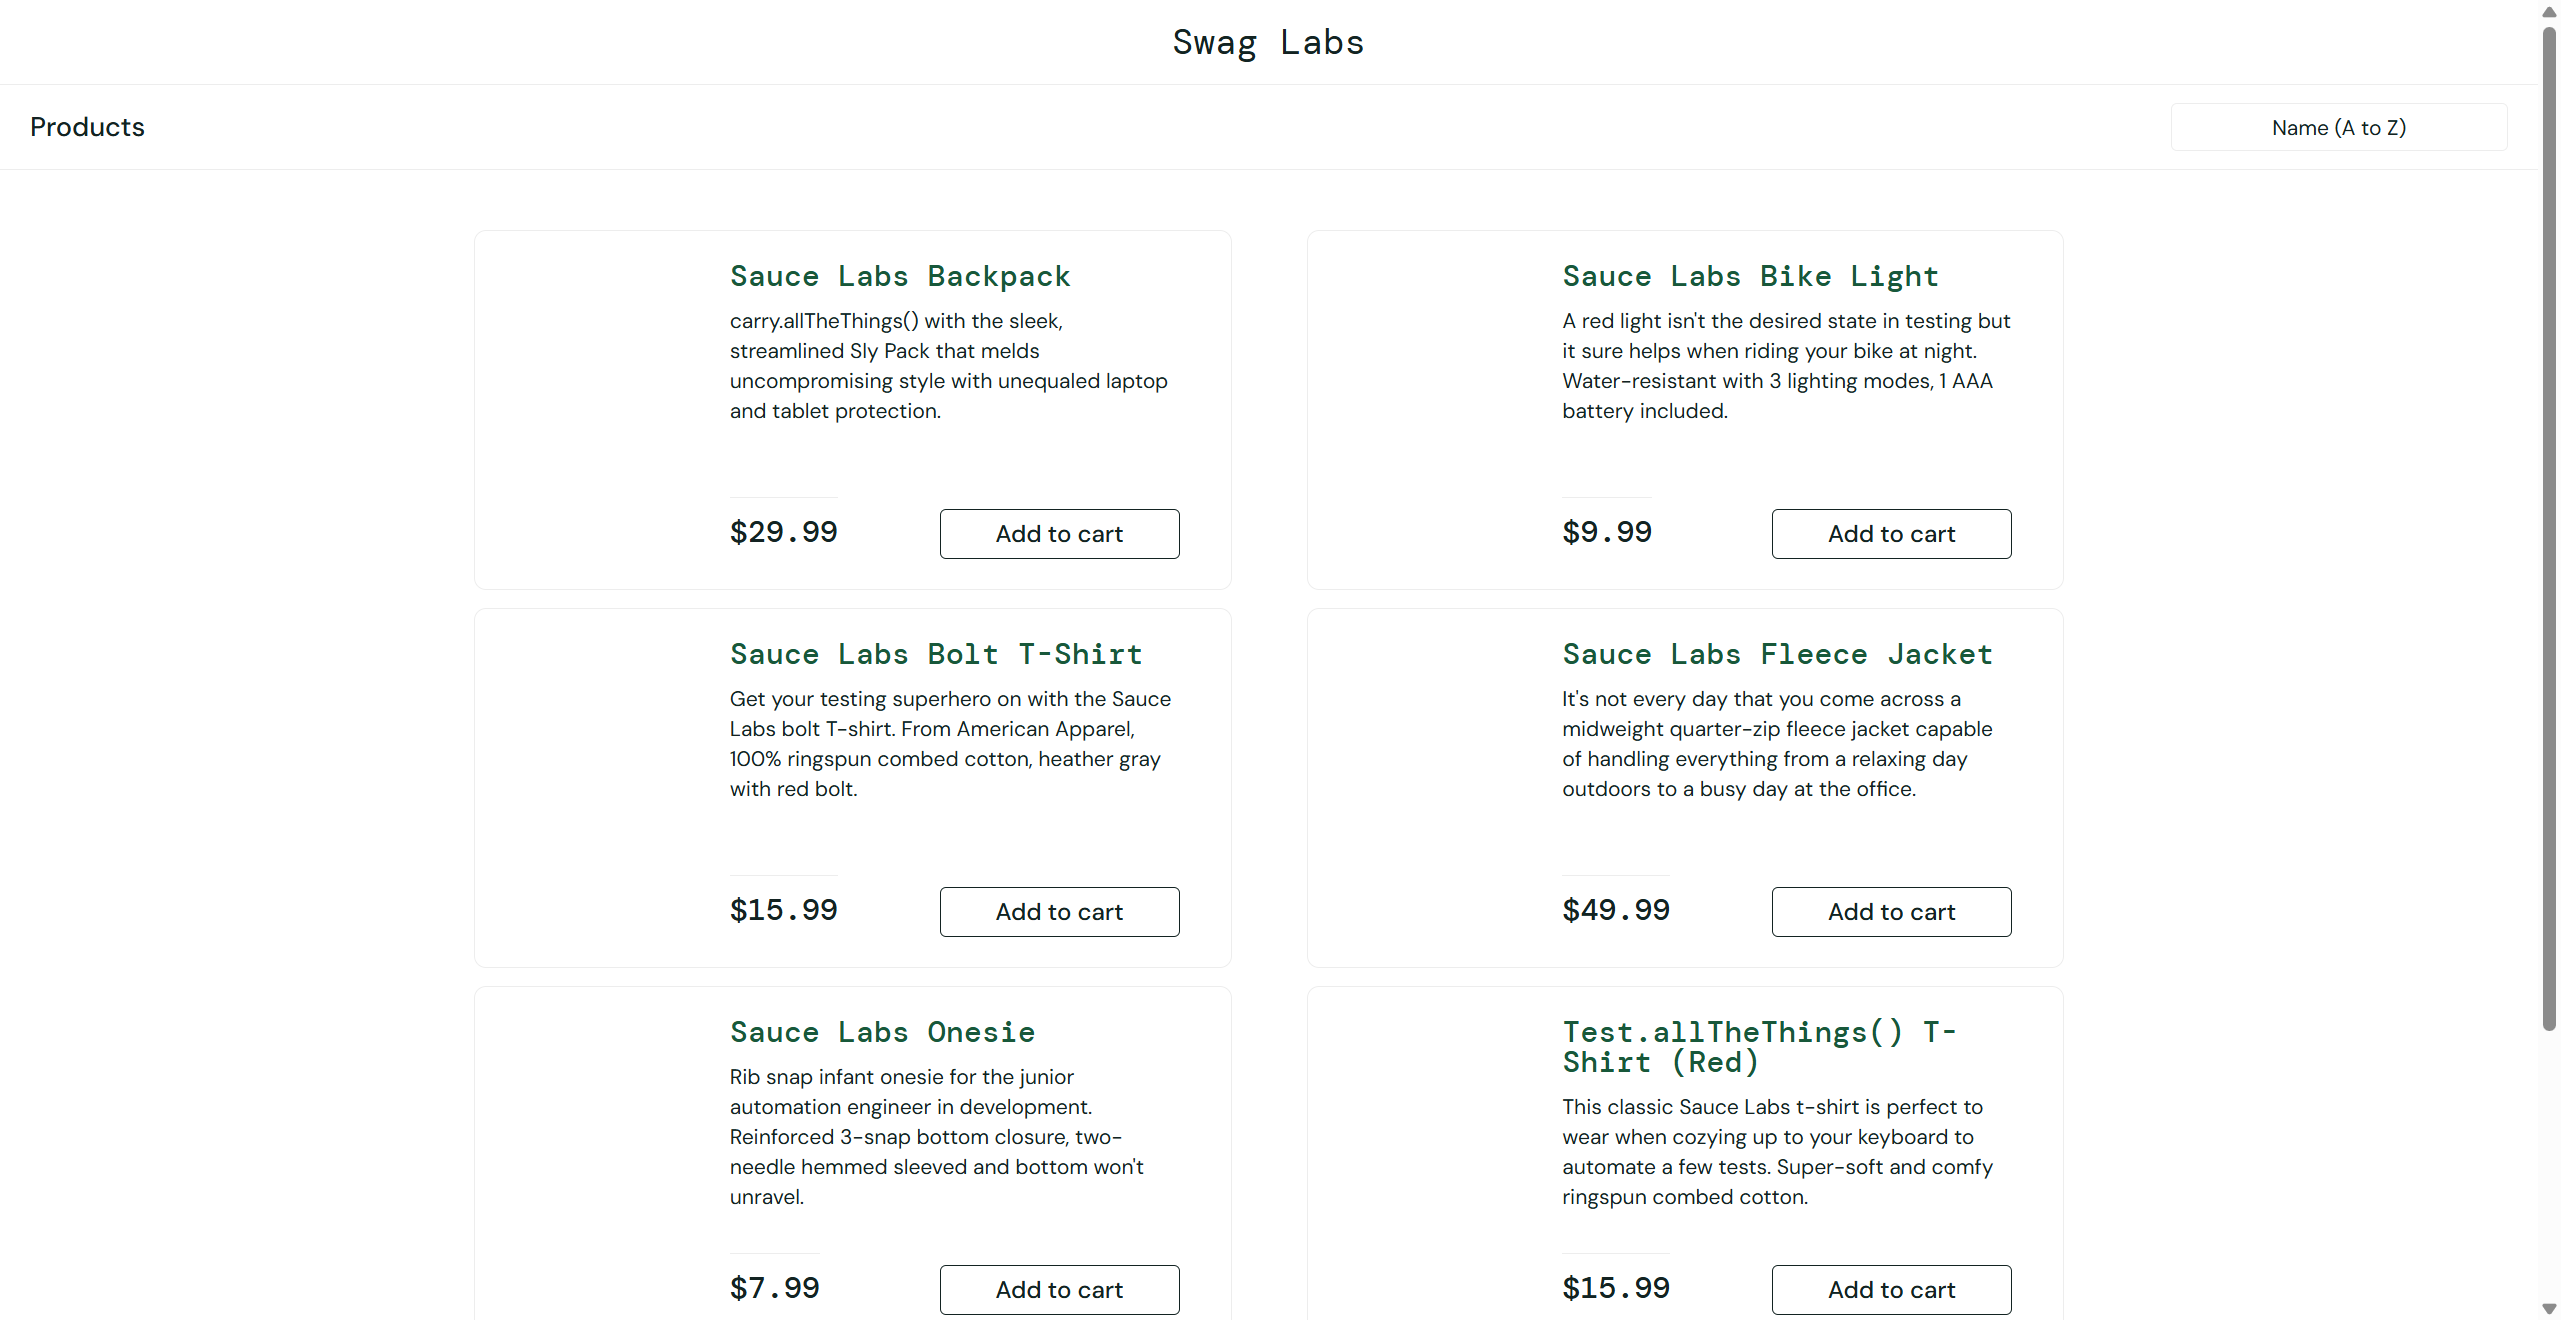
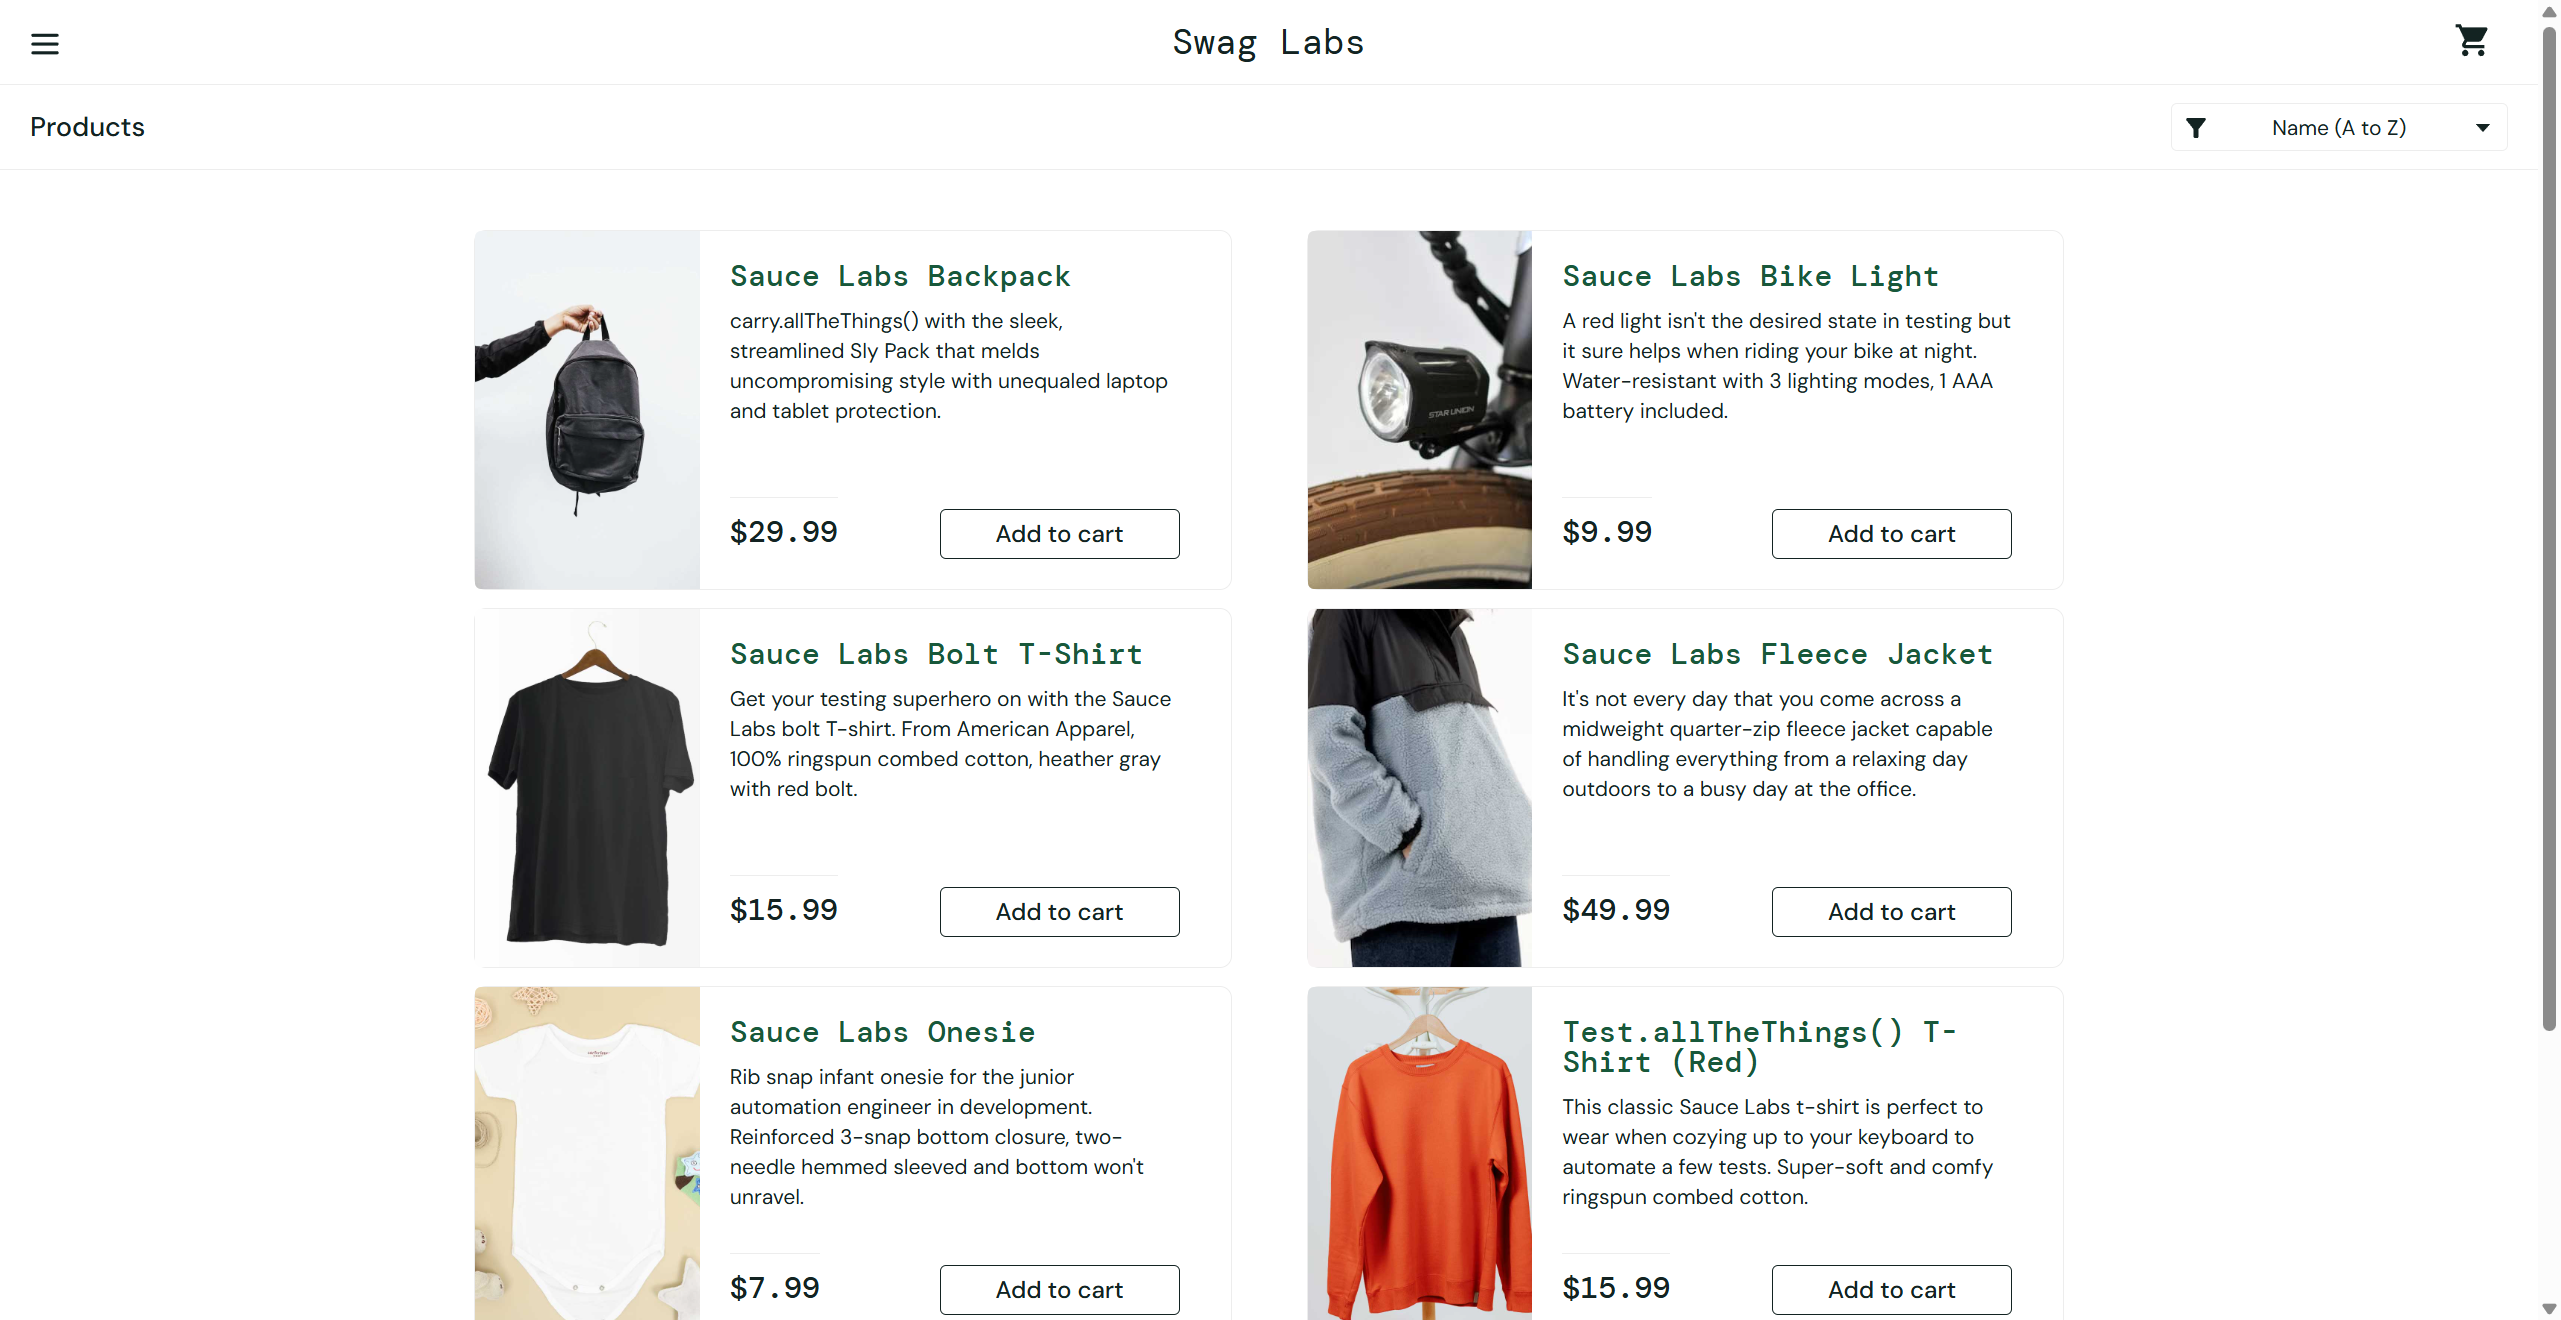
Final fix checkout navigation

diff --git a/pages/inventory_page.py b/pages/inventory_page.py
@@ -1,74 +1,30 @@
 from selenium.webdriver.common.by import By
-from selenium.webdriver.support.ui import Select, WebDriverWait
-from selenium.webdriver.support import expected_conditions as EC
-
+from selenium.webdriver.support.ui import Select
 from pages.base_page import BasePage
 
 
 class InventoryPage(BasePage):
-    INVENTORY_CONTAINER = (By.ID, "inventory_container")
-
     ADD_BACKPACK_BUTTON = (By.ID, "add-to-cart-sauce-labs-backpack")
-    REMOVE_BACKPACK_BUTTON = (By.ID, "remove-sauce-labs-backpack")
     CART_LINK = (By.CLASS_NAME, "shopping_cart_link")
     SORT_SELECT = (By.CLASS_NAME, "product_sort_container")
     INVENTORY_ITEMS = (By.CLASS_NAME, "inventory_item_name")
     MENU_BUTTON = (By.ID, "react-burger-menu-btn")
     LOGOUT_LINK = (By.ID, "logout_sidebar_link")
 
-    def wait_for_page(self):
-        WebDriverWait(self.driver, 10).until(
-            EC.presence_of_element_located(self.INVENTORY_CONTAINER)
-        )
-
     def add_backpack_to_cart(self):
-        self.wait_for_page()
-
-        button = WebDriverWait(self.driver, 10).until(
-            EC.element_to_be_clickable(self.ADD_BACKPACK_BUTTON)
-        )
-
-        self.driver.execute_script("arguments[0].click();", button)
-
-        WebDriverWait(self.driver, 10).until(
-            EC.presence_of_element_located(self.REMOVE_BACKPACK_BUTTON)
-        )
+        self.click(self.ADD_BACKPACK_BUTTON)
 
     def open_cart(self):
-        WebDriverWait(self.driver, 10).until(
-            EC.element_to_be_clickable(self.CART_LINK)
-        )
         self.click(self.CART_LINK)
 
     def sort_by_name_z_to_a(self):
-        self.wait_for_page()
-
-        WebDriverWait(self.driver, 10).until(
-            EC.presence_of_element_located(self.SORT_SELECT)
-        )
-
         select = Select(self.find(self.SORT_SELECT))
         select.select_by_value("za")
 
     def get_product_names(self):
-        self.wait_for_page()
-
-        WebDriverWait(self.driver, 10).until(
-            EC.presence_of_all_elements_located(self.INVENTORY_ITEMS)
-        )
-
         items = self.driver.find_elements(*self.INVENTORY_ITEMS)
         return [item.text for item in items]
 
     def logout(self):
-        self.wait_for_page()
-
-        menu_button = WebDriverWait(self.driver, 10).until(
-            EC.element_to_be_clickable(self.MENU_BUTTON)
-        )
-        self.driver.execute_script("arguments[0].click();", menu_button)
-
-        logout_link = WebDriverWait(self.driver, 10).until(
-            EC.element_to_be_clickable(self.LOGOUT_LINK)
-        )
-        self.driver.execute_script("arguments[0].click();", logout_link)
+        self.click(self.MENU_BUTTON)
+        self.click(self.LOGOUT_LINK)

diff --git a/pages/checkout_page.py b/pages/checkout_page.py
@@ -1,7 +1,4 @@
 from selenium.webdriver.common.by import By
-from selenium.webdriver.support.ui import WebDriverWait
-from selenium.webdriver.support import expected_conditions as EC
-
 from pages.base_page import BasePage
 
 
@@ -14,38 +11,13 @@ class CheckoutPage(BasePage):
     COMPLETE_HEADER = (By.CLASS_NAME, "complete-header")
 
     def fill_user_data(self, first_name, last_name, postal_code):
-        # Принудительный переход на страницу оформления заказа
-        # используется для стабильной работы теста в CI/CD
-        self.driver.get("https://www.saucedemo.com/checkout-step-one.html")
-
-        WebDriverWait(self.driver, 10).until(
-            EC.presence_of_element_located(self.FIRST_NAME_INPUT)
-        )
-
         self.type_text(self.FIRST_NAME_INPUT, first_name)
         self.type_text(self.LAST_NAME_INPUT, last_name)
         self.type_text(self.POSTAL_CODE_INPUT, postal_code)
-
-        continue_button = WebDriverWait(self.driver, 10).until(
-            EC.element_to_be_clickable(self.CONTINUE_BUTTON)
-        )
-        self.driver.execute_script("arguments[0].click();", continue_button)
-
-        WebDriverWait(self.driver, 10).until(
-            EC.presence_of_element_located(self.FINISH_BUTTON)
-        )
+        self.click(self.CONTINUE_BUTTON)
 
     def finish_order(self):
-        finish_button = WebDriverWait(self.driver, 10).until(
-            EC.element_to_be_clickable(self.FINISH_BUTTON)
-        )
-        self.driver.execute_script("arguments[0].click();", finish_button)
-
-        WebDriverWait(self.driver, 10).until(
-            EC.presence_of_element_located(self.COMPLETE_HEADER)
-        )
+        self.click(self.FINISH_BUTTON)
 
     def get_complete_message(self):
-        return WebDriverWait(self.driver, 10).until(
-            EC.presence_of_element_located(self.COMPLETE_HEADER)
-        ).text
+        return self.get_text(self.COMPLETE_HEADER)

diff --git a/pages/cart_page.py b/pages/cart_page.py
@@ -1,19 +1,13 @@
 from selenium.webdriver.common.by import By
-from selenium.webdriver.support.ui import WebDriverWait
-from selenium.webdriver.support import expected_conditions as EC
-
 from pages.base_page import BasePage
 
 
 class CartPage(BasePage):
+    CART_ITEMS = (By.CLASS_NAME, "cart_item")
     CHECKOUT_BUTTON = (By.ID, "checkout")
-    BACKPACK_ITEM = (By.XPATH, "//div[text()='Sauce Labs Backpack']")
 
-    def is_backpack_in_cart(self):
-        return WebDriverWait(self.driver, 10).until(
-            EC.presence_of_element_located(self.BACKPACK_ITEM)
-        ).is_displayed()
+    def get_cart_items_count(self):
+        return len(self.driver.find_elements(*self.CART_ITEMS))
 
     def checkout(self):
-        # 🔥 Принудительный переход (самое стабильное решение)
-        self.driver.get("https://www.saucedemo.com/checkout-step-one.html")
+        self.click(self.CHECKOUT_BUTTON)

diff --git a/conftest.py b/conftest.py
@@ -1,19 +1,11 @@
 import pytest
 from selenium import webdriver
-from selenium.webdriver.chrome.options import Options
 
 
 @pytest.fixture
 def driver():
-    options = Options()
-    options.add_argument("--headless=new")
-    options.add_argument("--no-sandbox")
-    options.add_argument("--disable-dev-shm-usage")
-    options.add_argument("--window-size=1920,1080")
-
-    driver = webdriver.Chrome(options=options)
+    driver = webdriver.Chrome()
+    driver.maximize_window()
     driver.implicitly_wait(5)
-
     yield driver
-
     driver.quit()

diff --git a/tests/test_cart.py b/tests/test_cart.py
@@ -17,4 +17,4 @@ def test_add_product_to_cart(driver):
     inventory_page.open_cart()
     driver.save_screenshot("screenshots/05_cart_page.png")
 
-    assert cart_page.is_backpack_in_cart()
+    assert cart_page.get_cart_items_count() == 1